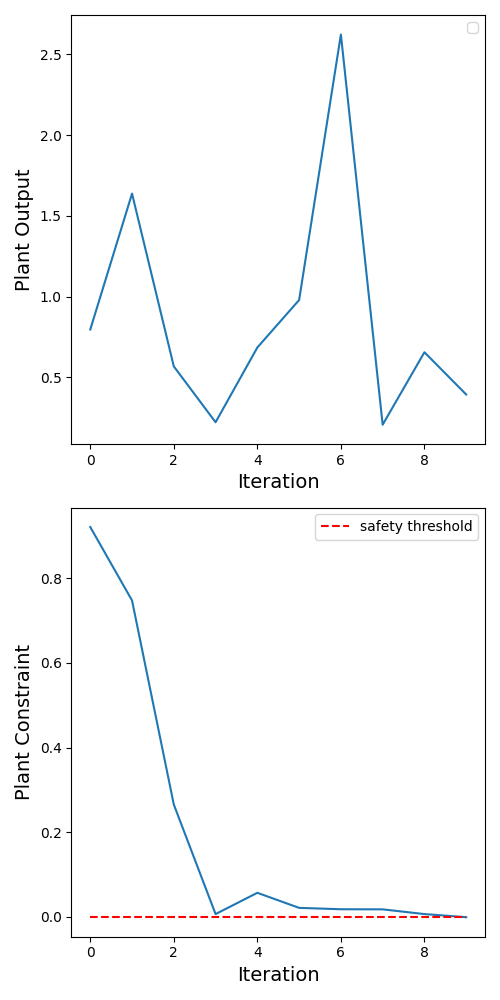
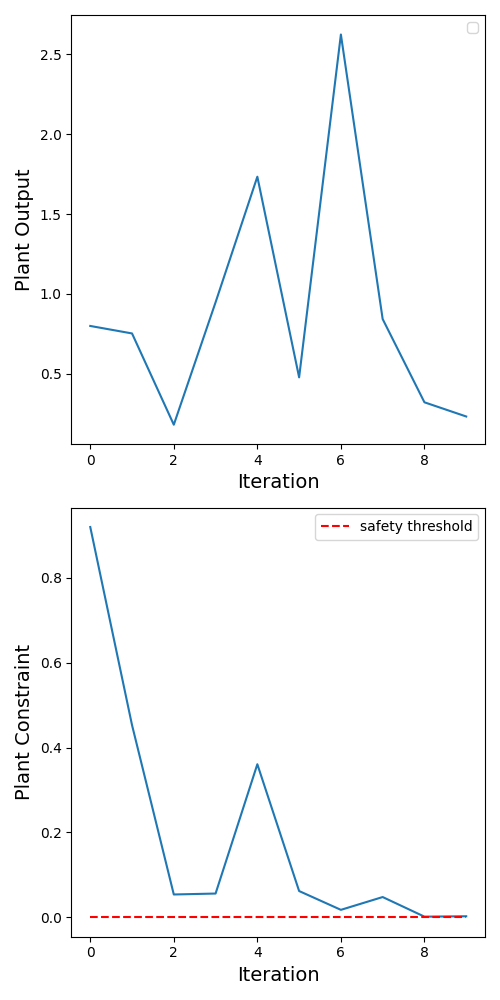
commit

diff --git a/models/SafeOpt.py b/models/SafeOpt.py
@@ -84,17 +84,9 @@ class BO(GP):
 
         return jnp.array(sample)
 
-    def Expander_condition(self,sobol_point,x,i):
-        lcb_maxnorm_grad_jit                        = jit(self.maxnorm_mean_grad)
-        squared_seuclidean_jax_jit                  = jit(self.squared_seuclidean_jax)
-        V                                           = jnp.array([1.]*self.nx_dim)
-        dist                                        = jnp.sqrt(squared_seuclidean_jax_jit(x.reshape(1, -1),sobol_point.reshape(1, -1),V))
-        
-        return self.ucb(x,i) - lcb_maxnorm_grad_jit(x,i)*dist
-    
     def Expander_constraint(self,x,unsafe_sobol_sample):
         # Initialization
-        Expander_condition_vmap_jit = jit(vmap(self.Expander_condition,in_axes=(0,None,None)))
+        lcb_maxnorm_grad_jit    = jit(self.maxnorm_mean_grad)
         eps                     = jnp.sqrt(jnp.finfo(jnp.float32).eps)
         boundary                = False
         indicator               = 0.
@@ -110,52 +102,29 @@ class BO(GP):
         if boundary == False:
             print(indicator)
             return indicator
+        
+        for sobol_point in unsafe_sobol_sample:
 
-        condition = Expander_condition_vmap_jit(unsafe_sobol_sample,x,index)
-        start = time.time()
-        satisfied = jnp.any(condition >= 0.).astype(int)
+            if self.ucb(x,index) - lcb_maxnorm_grad_jit(x,index)*cdist(x.reshape(1, -1),sobol_point.reshape(1, -1)) >= 0.:
+                indicator = 10.
+                print(indicator)
 
-        if satisfied:
-            indicator = 10.
-            print(indicator)
-            return indicator
+                if jnp.any(unsafe_sobol_sample[:50] == sobol_point):
+                    pass
+                else:
+                    index = jnp.where(sobol_point == unsafe_sobol_sample)[0][0]
+                    unsafe_sobol_sample = jnp.vstack((sobol_point,unsafe_sobol_sample[:index],unsafe_sobol_sample[index+1:]))
 
-        print(indicator)  
+                return indicator
+        print(indicator)
         return indicator
-
-    # def Expander_constraint(self,x,unsafe_sobol_sample):
-    #     # Initialization
-    #     lcb_maxnorm_grad_jit    = jit(self.maxnorm_mean_grad)
-    #     eps                     = jnp.sqrt(jnp.finfo(jnp.float32).eps)
-    #     boundary                = False
-    #     indicator               = 0.
-    #     n_constraints           = list(range(1, self.n_fun))
-    #     random.shuffle(n_constraints)
-    #     print(x)
-    #     for i in n_constraints:
-    #         if self.lcb(x,i) <= eps:
-    #             boundary        = True
-    #             index           = i
-    #             break
-        
-    #     if boundary == False:
-    #         print(indicator)
-    #         return indicator
-        
-    #     for sobol_point in unsafe_sobol_sample:
-
-    #         if self.ucb(x,index) - lcb_maxnorm_grad_jit(x,index)*cdist(x.reshape(1, -1),sobol_point.reshape(1, -1)) >= 0.:
-    #             indicator = 10.
-    #             print(indicator)
-    #             return indicator
-    #     print(indicator)
-    #     return indicator
     
     def Expander(self,unsafe_sobol_sample):
+        eps = jnp.sqrt(jnp.finfo(jnp.float32).eps)
         obj_fun = lambda x: -self.GP_inference_jit(x,self.inference_datasets)[1][0] # objective function is -variance as differential equation finds min (convert to max)
         cons = copy.deepcopy(self.safe_set_cons)
         cons.append(NonlinearConstraint(lambda x: self.Expander_constraint(x,unsafe_sobol_sample),10.,jnp.inf))
-        result = differential_evolution(obj_fun,self.bound,constraints=cons,tol=0.1)
+        result = differential_evolution(obj_fun,self.bound,constraints=cons,tol=eps)
         return result.x, jnp.sqrt(-result.fun)
     
     # Overall Algorithm
@@ -164,13 +133,12 @@ class BO(GP):
         # Initialization
         X,Y = self.Data_sampling(n_sample,x_initial,radius)
         self.GP_initialization(X, Y, 'RBF', multi_hyper=5, var_out=True)
-        
-        # Create sobol_seq sample for Expander
-        n_sample = 1000
-        unsafe_sobol_sample = self.unsafe_sobol_seq_sampling(self.nx_dim,n_sample,self.bound)
 
         # SafeOpt
         for i in range(n_iter):
+            # Create sobol_seq sample for Expander
+            n_sample = 1000
+            unsafe_sobol_sample = self.unsafe_sobol_seq_sampling(self.nx_dim,n_sample,self.bound)
             minimizer,std_minimizer = self.Minimizer()
             expander,std_expander = self.Expander(unsafe_sobol_sample)
 

diff --git a/test/test_SafeOpt.py b/test/test_SafeOpt.py
@@ -148,6 +148,9 @@ def test_SafeOpt_Benoit():
     n_iteration = 10
 
     for i in range(n_iteration):
+        # Create sobol_seq sample for Expander
+        n_sample = 1000
+        unsafe_sobol_sample = GP_m.unsafe_sobol_seq_sampling(GP_m.nx_dim,n_sample,GP_m.bound)
         start = time.time()
         minimizer,std_minimizer = GP_m.Minimizer()
         print(f"minimizer:{minimizer},std: {std_minimizer}")
@@ -178,6 +181,10 @@ def test_SafeOpt_Benoit():
         filenames.append(filename)
 
         GP_m.add_sample(x_new,plant_output)
+
+        # Finish the iteration early 
+        if std_expander < 0.01 and std_minimizer < 0.01:
+            break
     
     # Create GIF
     frame_duration = 700
@@ -252,8 +259,8 @@ if __name__ == "__main__":
     # test_Minimizer()
     # test_mean_grad_jit()
     # test_unsafe_sobol_seq_sampling
-    test_Expander_constraint()
+    # test_Expander_constraint()
     # test_Expander() 
-    # test_SafeOpt_Benoit()
+    test_SafeOpt_Benoit()
     # test_GIF()
 

diff --git a/test.py b/test.py
@@ -1,17 +1,13 @@
-import matplotlib.pyplot as plt
+import jax.numpy as jnp
+import time
 
-# Define the coordinates of the two points
-x1, y1 = 0, 0  # First point
-x2, y2 = 4, 3  # Second point
 
-# Plot the dashed black line between the two points
-plt.plot([x1, x2], [y1, y2], 'k--')
+import jax.numpy as jnp
 
-# Add labels and title for clarity
-plt.xlabel('X-axis')
-plt.ylabel('Y-axis')
-plt.title('Dashed Black Line Between Two Points')
+my_list = jnp.array([[1],
+                     [2],
+                     [3],
+                     [4]])
+a = jnp.array([4])
 
-# Show the plot
-plt.grid(True)
-plt.show()
+print(jnp.any(my_list[:]==a))
